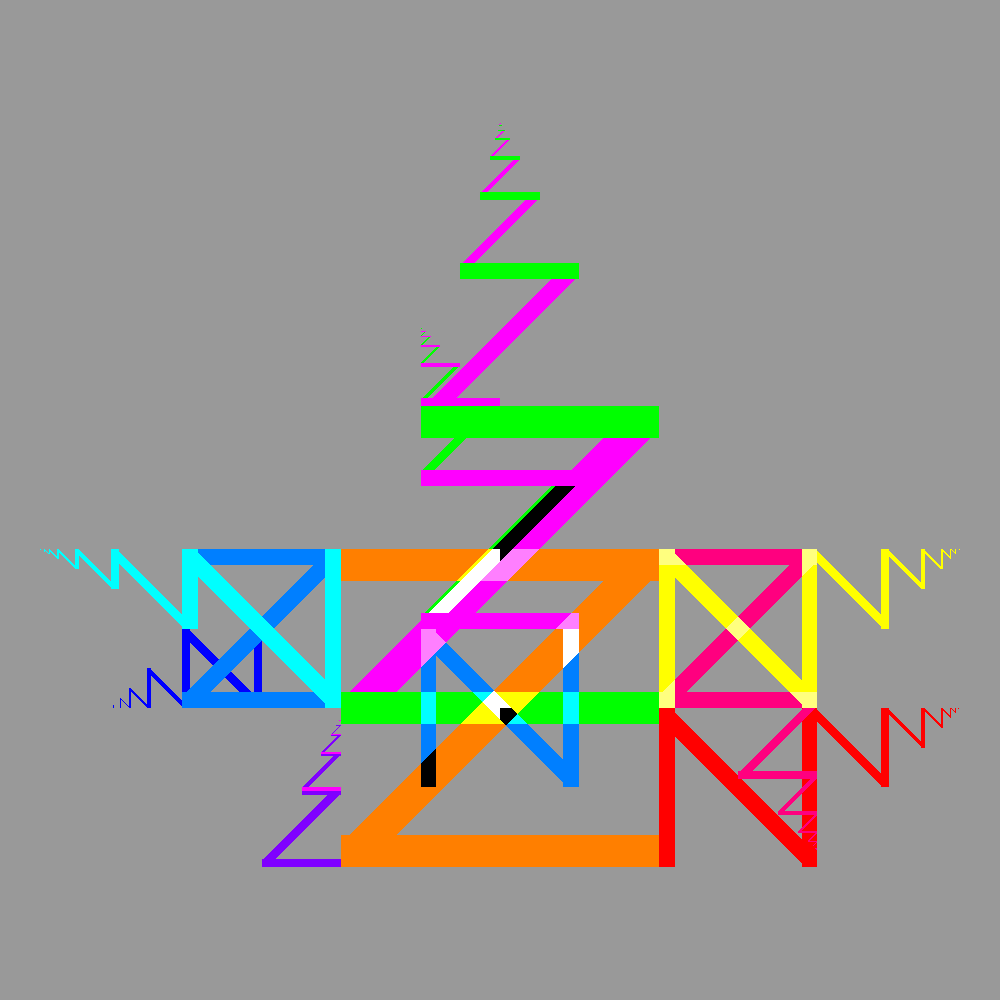
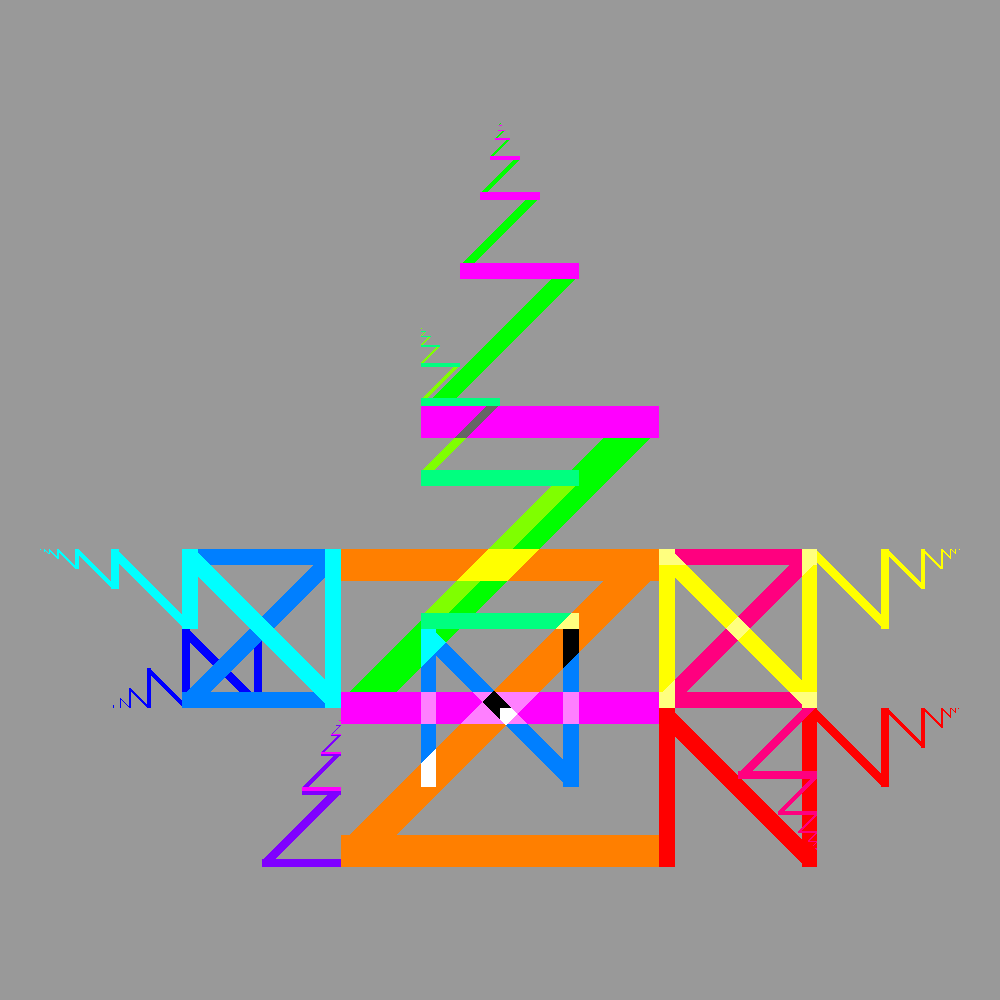
I'd forgotten the greens!

Changed region(s): [[0.341, 0.155, 0.682, 0.806]]

diff --git a/THUNDERBIRD.html b/THUNDERBIRD.html
@@ -128,6 +128,7 @@ vec4 loopNZ(vec2 p, bool flop, vec4 colour1, vec4 colour2, vec4 colour3)
 				 			 if(flop&&p.x<-0.+lineWidth*1.&&p.y>.125&&abs(p.x)<.5+lineWidth&&abs(p.y)<.5+lineWidth
 							     )ret*=0.;
 			  			 p*=2.;
+				 				 if(p.x<lineWidth-.5&&p.y>-.25)ret*=0.;
 			  p+=vec2(.75-lineWidth,-.5);
 			  			  if(flop)p.y+=.5;
 			 // if(p.x<.5)ret*=0.;
@@ -158,8 +159,15 @@ void main(){
 					vec4 red = vec4(1.,.0,.0,1.);
 		vec4 pink = vec4 (1.,0.,1.,1.);
 		vec4 green = vec4(0.,1.,0.,1.);
-		n+=MIDDLEnz((Z+vec2(i*1.+lineWidth/2.,0)),true	, green, pink, green);
-			n+=loopNZ((Z*2.+vec2(i*2.,0)),false	, pink, green, pink);
+			vec4 white = vec4(1.,1.,1.,1.);
+			vec4 lightgreen = vec4(.5,1.,.0,1.);
+				vec4 seagreen = vec4(.0,1.,.5,1.);
+		n+=MIDDLEnz((Z+vec2(i*1.+lineWidth/2.,0)),true	, pink, green, pink);
+			
+	//if(p.x>-.375+lineWidth/2.)
+	//n+=loopNZ((Z*2.+vec2(i*2.,0)),false	,white , white, white );
+	//else 
+		n+=loopNZ((Z*2.+vec2(i*2.,0)),false	, seagreen, lightgreen, seagreen);
 
 	n+=O(Z	, orange, orange, orange);//center Z
 	n+=loopNZ((Z*4.-vec2(i*3.,i*5.)),true	, purple, purple, purple);//christmas tree Z
@@ -206,6 +214,9 @@ void main(){
 		n+=3./5.;
 		 if(n.r>=1.0&&n.g>=1.0&&n.b>=1.)
 		 {
+			 
+			 if( p.x>-.125)
+			 {
 			 	 if(p.x<-0.25)n=vec4(0.);
 			 else if (p.y<0.)n=vec4(0.);
 			//else  if (p.x>0.&&p.y<0.
@@ -213,7 +224,15 @@ void main(){
 				 if(p.x<0.&&p.y<0.&&p.x>-lineWidth)n=vec4(1.);
 				 if(p.x>-.125&&p.x<0.)n=vec4(1.);
 				  if(p.y>0.06125&&p.x>0.)n=vec4(0.);
+				 if(p.x>-.125-lineWidth/2.)
+				  if(n.r==0.)n=vec4(1.);
+					 else n=vec4(0.);
+					 if(p.x<-.375)n=vec4(2./5.);
+						 }
+					 	else if(p.x>-.5)n=vec4(2./5.);
+				 
 		 }
+
 
 
 

diff --git a/manny.html b/manny.html
@@ -317,7 +317,7 @@ let maxLetterDepth=-1;
                      
                       else  if(thismoment%4==3) 
                       {
-                        nf.style = "background-image: url('https://cdn.jsdelivr.net/gh/Z1X1Z/zonex_jsdelivr@14/thundeRainbow.png');"
+                        nf.style = "background-image: url('https://cdn.jsdelivr.net/gh/Z1X1Z/zonex_jsdelivr@15/thundeRainbow.png');"
                                       document.body.style="#999";
 
                     }
